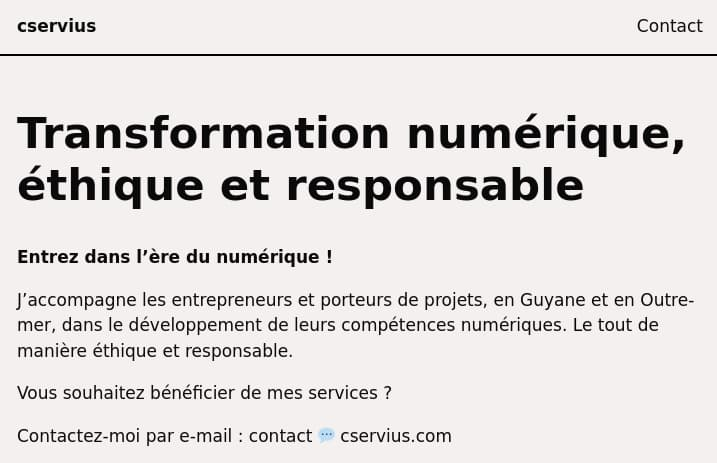
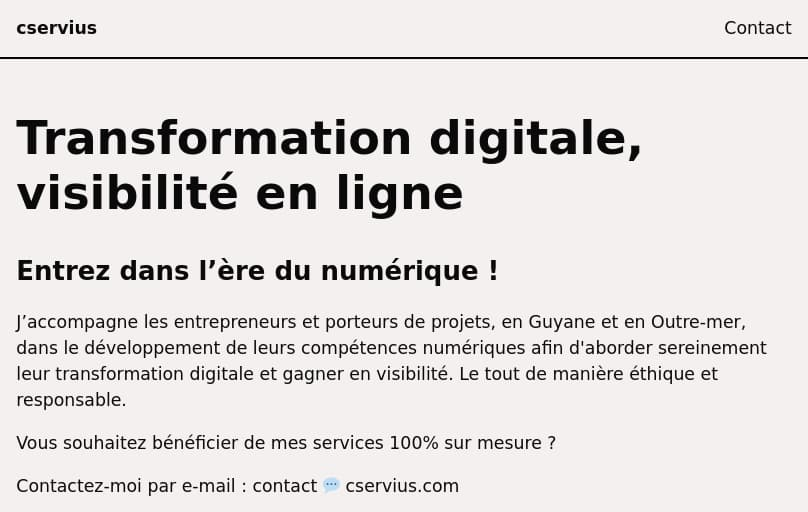
updates and corrections

diff --git a/src/styles/global.css b/src/styles/global.css
@@ -52,6 +52,10 @@ h1 {
   margin: 2rem 0;
 }
 
+h2 {
+  margin-bottom: 1.25rem;
+}
+
 a {
   text-decoration: none;
   color: inherit;
